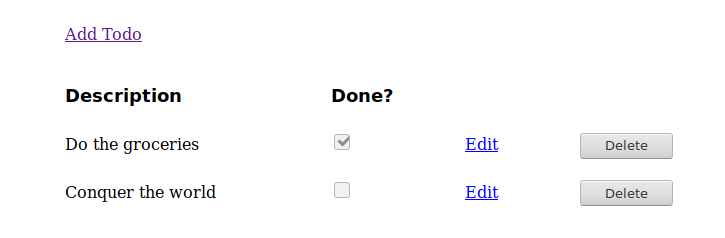
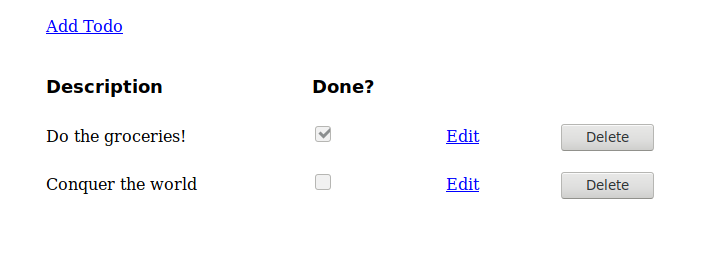
Keep Add Todo link blue

diff --git a/style.css b/style.css
@@ -1,4 +1,6 @@
-
+a {
+	color:blue;
+}
 #wrapper {
   padding-top:30px;
   text-align:center;
@@ -36,7 +38,6 @@
   width:130px;
 }
 .todo > a {
-  color:blue;
   width:60px;
   margin-right:50px;
 }
